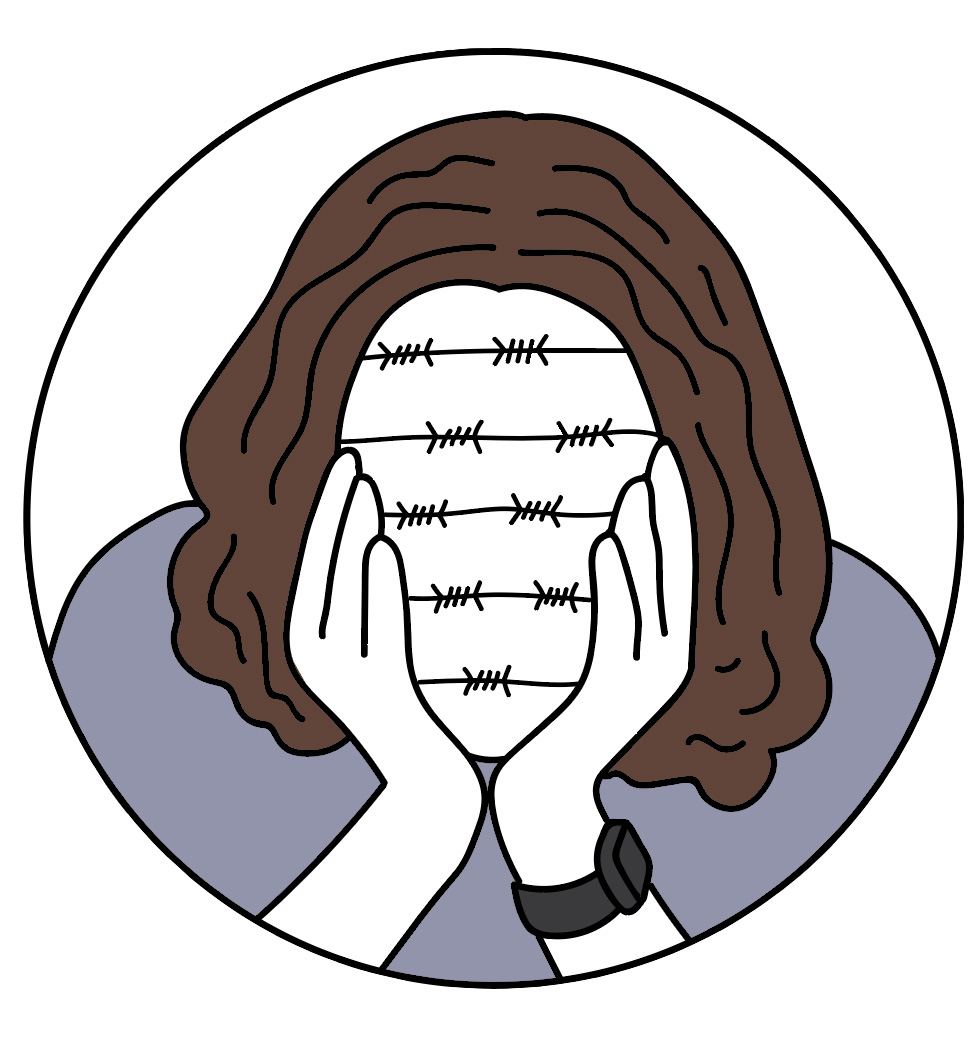
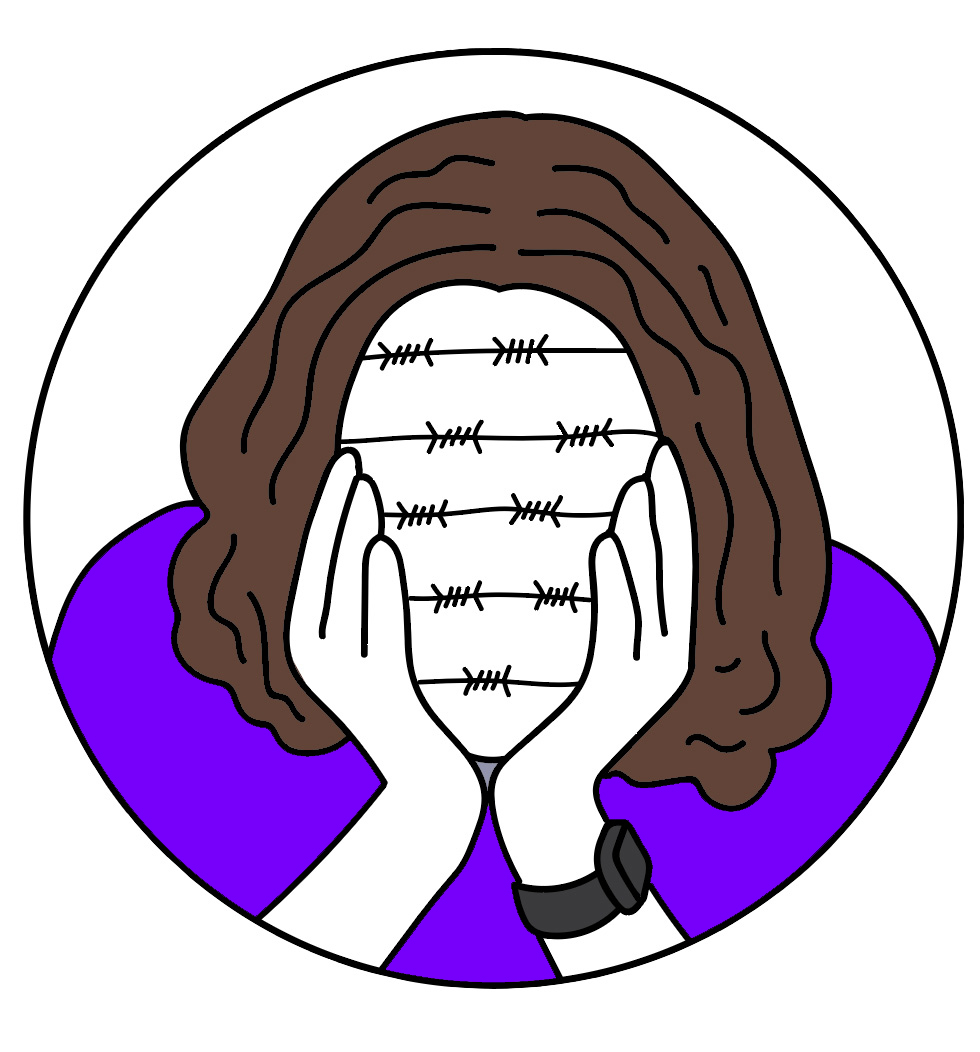
update about section. added bio, intro, card section.

Changed region(s): [[0.0306, 0.4563, 0.398, 0.8821], [0.6122, 0.5171, 0.9796, 0.9125], [0.398, 0.7605, 0.5816, 0.943]]

diff --git a/home.html b/home.html
@@ -17,27 +17,101 @@
     <nav class="navbar navbar-expand bg-light navbar-light text-uppercase fixed-top" style="padding: 20px 50px;">
         <a class="navbar-brand text-dark" href="#">Home</a>
         <div class="navbar-nav">
-            <a class="nav-item active nav-link text-dark" href="#page-top">Portfolio</a>
+            <a class="nav-item nav-link text-dark" href="#">Portfolio</a>
             <a class="nav-item nav-link text-dark" href="#about">About</a>
-            <a class="nav-item nav-link text-dark" href="#contact">Contact</a>
+            <a class="nav-item nav-link text-dark" href="#contact">Say Hi!</a>
         </div>
     </nav>
 
     <header>
         <div class="container d-flex align-items-center flex-column">
-            <img src="./assets/images/avatar.png" alt="avatar" style="width: 250px;" id="headerImg" />
+            <img src="./assets/images/avatar.jpg" alt="avatar" style="width: 250px;" id="headerImg" />
             <h1 id="title">MICHAEL SHAW</h1>
             <p id="subtitle">Web Developer | Photographer | Journalist</p>
+            <a href="#about" class="text-dark" id="downarrow"><i class="fas fa-chevron-circle-down"
+                    style="width: 50px;"></i></a>
         </div>
     </header>
 
-    <section id="about">
-        <h3>About</h3>
-        <p>Lorem ipsum dolor sit amet consectetur adipisicing elit. Quae, omnis aut beatae ipsam at quibusdam quaerat
-            eligendi, illo veniam rerum voluptate quis! Sequi dolorum ut voluptatibus praesentium maxime dicta ea.
-            Dolorem um sequie qui architecto doloremque, adipisci deserunt dolorum magni totam exercitationem placeat
-            recusandae ten, ad eligendi!</p>
+    <section class="aboutWrapper">
+        <div id="about">
+            <h3 class="text-white">Hi! I'm Michael. Nice to meet you.</h3>
+            <p class="text-white">
+                I'm only just starting out on my journey as a web designer and I couldn't be more excited. I've
+                completed a minor in Web Design at Curtin University in Perth, WA and I'm currently completing a Coding
+                Bootcamp at the University of Western Australia.
+            </p>
+            <p>
+
+            </p>
+        </div>
     </section>
+    <section class="about-cards">
+        <div class="card-group">
+            <div class="card text-center">
+                <img class="card-img-top icons" src="./assets/images/design.png" alt="...">
+                <div class="card-body">
+                    <h5 class="card-title">Designer</h5>
+                    <p class="card-text">
+                        I like to code things from scratch, and enjoy bringing ideas to life in the browser.
+                        <!-- Change this as its stolen -->
+                    </p>
+                    <h6>Things I love designing</h6>
+                    <p>UX, UI, Mobile, Web</p>
+                    <h6>Design Tools:</h6>
+                    <ul>
+                        <li>Adobe XD</li>
+                        <li></li>
+                        <li></li>
+                        <li></li>
+                        <li></li>
+                        <li></li>
+                    </ul>
+                </div>
+            </div>
+            <div class="card text-center">
+                <img class="card-img-top icons" src="./assets/images/front-end.png" alt="...">
+                <div class="card-body">
+                    <h5 class="card-title">Front-end Developer</h5>
+                    <p class="card-text">
+                        I like to code things from scratch, and enjoy bringing ideas to life in the browser.
+                        <!-- Change this as its stolen -->
+                    </p>
+                    <h6>Languages I speak:</h6>
+                    <p>HTML, CSS, JavaScript, jQuery</p>
+                    <h6>Dev Tools:</h6>
+                    <ul>
+                        <li>Bootstrap</li>
+                        <li>Bulma</li>
+                        <li>GitHub</li>
+                        <li>GitLab</li>
+                        <li>Terminal</li>
+                        <li>Codepen</li>
+                    </ul>
+                </div>
+            </div>
+            <div class="card text-center">
+                <img class="card-img-top icons" src="./assets/images/back-end.png" alt="..." id="icons">
+                <div class="card-body">
+                    <h5 class="card-title">Back-end Developer</h5>
+                    <p class="card-text">This card has supporting text below as a natural lead-in to additional content.
+                    </p>
+                    <h6>Languages I speak:</h6>
+                    <p>Node.js</p>
+                    <h6>Dev Tools:</h6>
+                    <ul>
+                        <li></li>
+                        <li></li>
+                        <li></li>
+                        <li></li>
+                        <li></li>
+                        <li></li>
+                    </ul>
+                </div>
+            </div>
+        </div>
+    </section>
+
 
     <section id="work">
         <h3>Work</h3>

diff --git a/assets/css/style.css b/assets/css/style.css
@@ -27,6 +27,10 @@ src: url('../fonts/roboto.ttf');
   src: url('../fonts/bastian.ttf');
 }
 
+#title-spacing {
+  padding-left: -100px;
+}
+
 h1 {
   font-family: 'neon';
   font-size: 70px;
@@ -53,45 +57,94 @@ a:hover {
 }
 
 header {
-  margin-top: 120px;
+  height: 100vh;
+  margin-bottom: 280px;
 }
 
+#headerImg {
+  margin-top: 200px;
+
+}
+
+#downarrow {
+  position: relative;
+  top: 190px;
+  font-size: 90px;
+}
 /* from old portfolio */
 
-h3 {
-  font-family: 'bastian';
-  font-size: 5vw;
-  font-weight: lighter;
-  padding: 0px 60px;
-  margin-top: 0px;
+section {
+  padding-top: 70px;
 }
 
-/* give each section padding so they aren't touching each other */
-section {
-  padding-top: 100px;
+/* section header font styling */
+h3 {
+  font-family: 'acetone';
+  font-size: 40px;
+  font-weight: lighter;
+  text-align: center;
 }
+
+/* ABOUT SECTION */
 
 #about {
+  padding-top: 150px;
   margin-left: auto;
   margin-right: auto;
-  width: 600px;
-  height: 200px;
+  width: 800px;
 }
 
 #about h3 {
-  float: left;
-  margin-bottom: 100px;
+  font-size: 50px;
+  padding-bottom: 10px;
 }
 
-/* center about section image and paragraph */
-#about img {
-  display: block;
-  margin-left: auto;
-  margin-right: auto;
-  width: 40vw;
+.aboutWrapper {
+  padding-bottom: 150px;
+  background-color: #7510f6;
 }
 
+#about p {
+  text-align: center;
+  font-family: 'roboto';
+  font-size: 20px;
+  font-weight: lighter;
+}
+
+.about-cards {
+  width: 800px;
+  position: relative;bottom: 500px;
+  left: 50%;
+
+  transform: translate(-50%, 50%);
+}
+
+.icons {
+  padding: 50px 0px;
+  width: 50px;
+  position: relative;
+  left: 45%;
+  transform: translate(50% 50%);
+}
+
+ul {
+  list-style-type: none;
+  padding-left: 0;
+}
+
+h5, h6 {
+  color: #7510f6;
+}
+
+h5:hover, h6:hover {
+  opacity: .8;
+
+}
 /* WORK SECTION */
+
+#work {
+  margin-top: 400px;
+}
 
 /* spacing above gallery and header */
 .gallery {
@@ -110,7 +163,7 @@ section {
 /* make first gallery image 100% width and 50% height to meet acceptance criteria */
 .gallery figure:first-child {
   width: 100%;
-  height: 50%;
+  height: 30%;
 }
 
 /* make each image fit it's own container rather than being full size */
@@ -130,20 +183,20 @@ section {
 
 /* when hovering over the image, opacity becomes 0.5 and grayscale appears  */
 .gallery figure:hover {
-  opacity: 0.5;
-  filter: grayscale(100%);
+  opacity: 0.8;
+  filter: grayscale(50%);
 }
 
-/* figcaption is used for the title of each image "Example 5", etc */
+/* figcaption is used for the title of each image, "Example 5", etc */
 figcaption {
   font-size: 4vw;
   text-align: center;
-  font-family: bastian;
+  font-family: 'bastian';
   color: white;
   position: absolute;
   left: 50%;
   bottom: 30px;
-  transform: translate(-50%, -50%);
+  transform: translate(-50%, 50%);
 } 
 
 /* change font-size for first figure as its displayed at a different size */
@@ -153,13 +206,6 @@ figcaption {
 
 /* CONTACT SECTION */
 
-
-#contact {
-  position: relative;
-  width: 100%;
-  margin: auto;
-}
-
 #contact h3 {
   padding: 50px;
   margin-top: -150px;
@@ -167,7 +213,7 @@ figcaption {
 
 /* space all buttons evenly and display flex */
 .contact-list ul {
-  padding-left: 40px;
+  padding-left: 0px;
   position: absolute;
   left: 50%;
   transform: translate(-50%, -50%);
